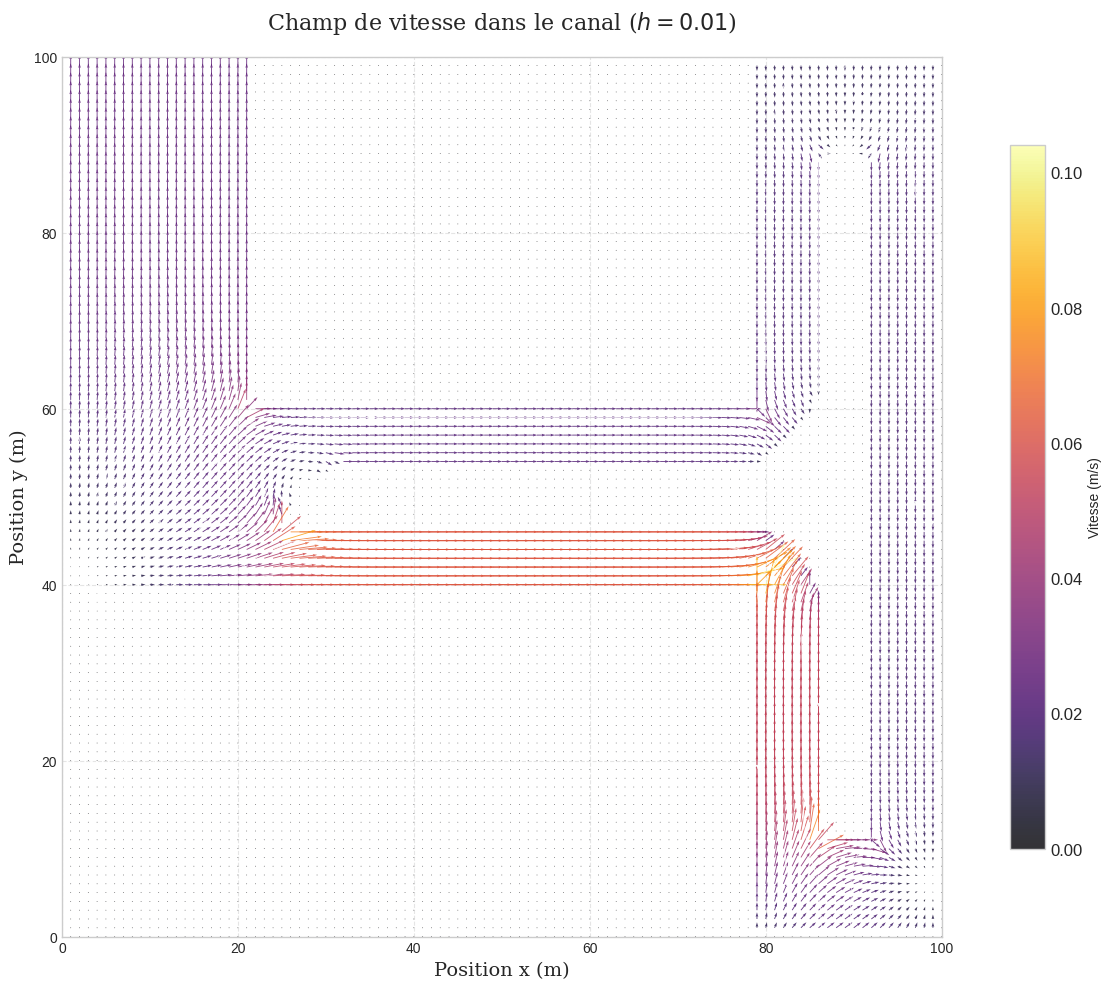
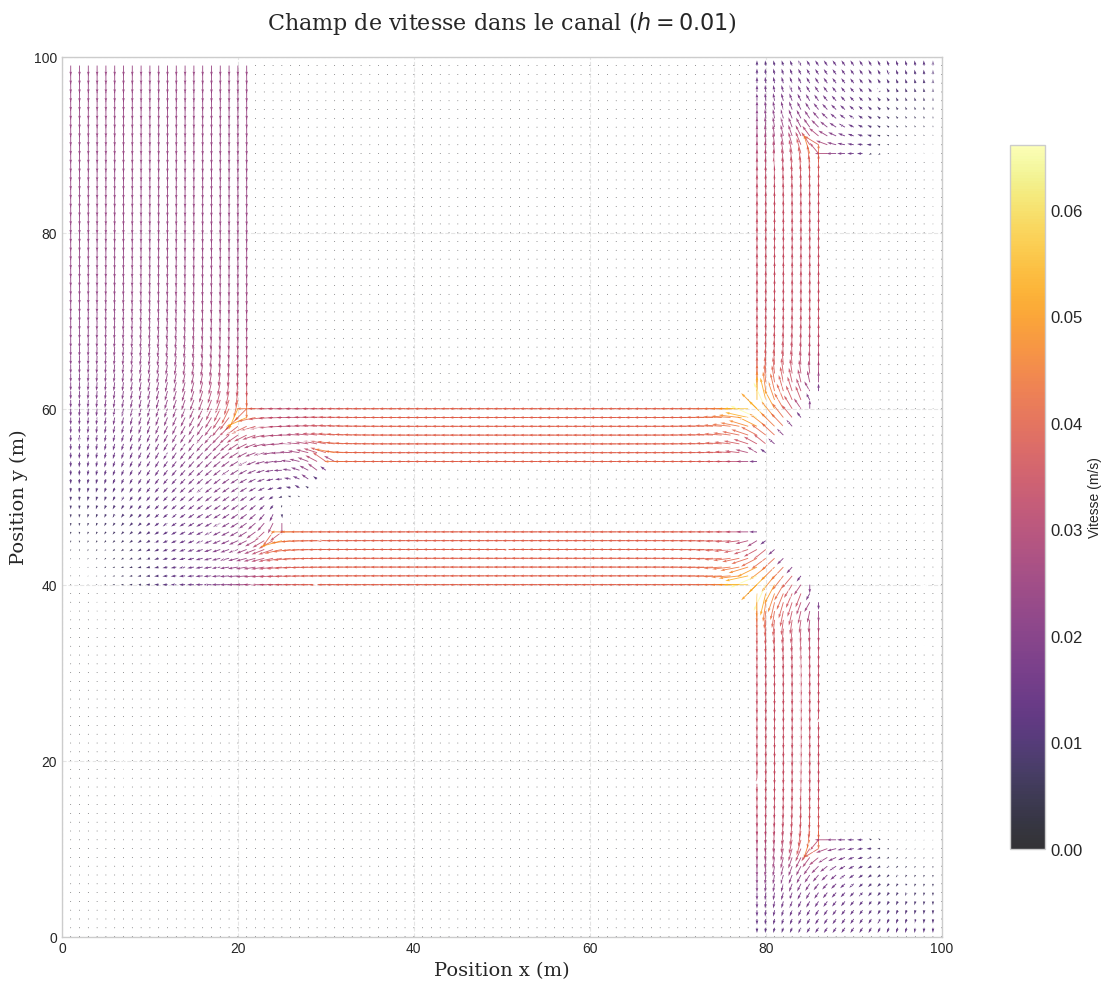
feat: fiiiiiiiiiiiiiiix c'est bon le champ de vitesse marche

diff --git a/main.py b/main.py
@@ -30,9 +30,8 @@ def main():
         print(f"La matrice X vaut \n {X} \n")
 
         if X.ndim == 1 and dom_1.shape:
-            sol_grid = np.zeros_like(dom_1, dtype=float)
-            for i in range(len(X)):
-                sol_grid[np.where(num_1 == i + 1)] = X[i]  # Map solution back to domain
+            sol_grid = np.full_like(num_1, np.nan, dtype=float)
+            sol_grid[num_1 > 0] = X[num_1[num_1 > 0] - 1]
             
             plt.figure(figsize=(14, 12))
             img = plt.imshow(sol_grid, cmap='coolwarm', origin='upper', interpolation='nearest')
@@ -67,10 +66,23 @@ def main():
             h = 0.5  # pas spatial pour le canal rectiligne (d'après le README)
             u, v = velocity(sol_grid, dom_1, h)
             
-            # Visualisation du champ de vitesse
-            plt.figure(figsize=(12, 8))
-            plt.quiver(u, v)
+            # Préparation des grilles pour quiver
+            ny, nx = sol_grid.shape
+            x = np.arange(nx) * h
+            y = np.arange(ny) * h
+            Xg, Yg = np.meshgrid(x, y)
+            Xr = Yg.T
+            Yr = Xg.T
+            u_rot = v.T
+            v_rot = u.T
+
+            plt.figure(figsize=(10, 7))
+            plt.quiver(Xr, Yr, u_rot, v_rot, color='cornflowerblue')
+            plt.xlabel("y [m]")
+            plt.ylabel("x [m]")
             plt.title("Champ de vitesse")
+            plt.axis("equal")
+            plt.grid(True)
             plt.show()
 
             # Création d'une grille de z (hauteur constante)
@@ -137,8 +149,8 @@ def main():
         print(f"La matrice A vaut \n {A} \n")
         print(f"La matrice B vaut \n {B} \n")
         
-        X = solve_system(A, B)
-        print(f"La matrice X vaut \n {X} \n")
+        psi = solve_system(A, B)
+        print(f"La matrice $\psi$ vaut \n {psi} \n")
         
         colors = [(1, 1, 1)]  # Blanc pour 0
         colors.extend(plt.cm.viridis(np.linspace(0, 1, 255))) 
@@ -148,10 +160,9 @@ def main():
         [(0.0, 'white')] + [(i / 255.0, plt.cm.Reds(i)) for i in range(1, 256)])
         
 
-        if X.ndim == 1 and dom_2.shape:
-            sol_grid = np.zeros_like(dom_2, dtype=float)
-            for i in range(len(X)):
-                sol_grid[np.where(num_2 == i + 1)] = X[i]  # Map solution back to domain
+        if psi.ndim == 1 and dom_2.shape:
+            sol_grid = np.full_like(num_2, np.nan, dtype=float)
+            sol_grid[num_2 > 0] = psi[num_2[num_2 > 0] - 1]
            
             
            
@@ -181,44 +192,24 @@ def main():
             h = 0.01  # pas spatial pour le canal rectiligne (d'après le README)
             u, v = velocity(sol_grid, dom_2, h)
             
-            speed = np.sqrt(u**2 + v**2)
-            
             # Visualisation du champ de vitesse
-            plt.style.use('seaborn-v0_8-whitegrid')
-            fig, ax = plt.subplots(figsize=(14, 10), dpi=100)
-            
-            # Génération du meshgrid pour quiver (y inversé)
-            x_quiver, y_quiver = np.meshgrid(np.arange(u.shape[1]), np.arange(u.shape[0])[::-1])
-            
-            # Utilisation correcte de quiver
-            q = ax.quiver(x_quiver, y_quiver, u, v, speed,
-                          cmap='inferno',  # Palette de couleurs
-                          scale=2,         # Échelle des flèches
-                          width=0.001,     # Largeur des flèches
-                          headwidth=3,     # Largeur des têtes de flèches
-                          alpha=0.8)       # Transparence
-            
-            # Ajout d'une barre de couleur
-            cbar = fig.colorbar(q, ax=ax, label='Vitesse (m/s)', shrink=0.8)
-            cbar.ax.tick_params(labelsize=12)
-            
-            # Génération du meshgrid pour streamplot (y non inversé)
-            x_stream, y_stream = np.meshgrid(np.arange(u.shape[1]), np.arange(u.shape[0]))
-            
-            # Ajout de lignes de courant (optionnel)
-            ax.streamplot(x_stream, y_stream, u, v, color='w', linewidth=0.5)
-            
-            # Personnalisation de l'affichage
-            ax.set_title(r'Champ de vitesse dans le canal ($h = 0.01$)',
-                         fontsize=16, pad=20, fontfamily='serif')
-            ax.set_xlabel('Position x (m)', fontsize=14, fontfamily='serif')
-            ax.set_ylabel('Position y (m)', fontsize=14, fontfamily='serif')
-            ax.grid(True, linestyle='--', alpha=0.5)
-            ax.set_aspect('equal')  # Conserve les proportions
-            
-            plt.tight_layout()
-            plt.show()
+            ny, nx = sol_grid.shape
+            x = np.arange(nx) * h
+            y = np.arange(ny) * h
+            Xg, Yg = np.meshgrid(x, y)
+            Xr = Yg.T
+            Yr = Xg.T
+            u_rot = v.T
+            v_rot = u.T
 
+            plt.figure(figsize=(10, 7))
+            plt.quiver(Xr, Yr, u_rot, v_rot, color='cornflowerblue')
+            plt.xlabel("y [m]")
+            plt.ylabel("x [m]")
+            plt.title("Champ de vitesse (canal en J)")
+            plt.axis("equal")
+            plt.grid(True)
+            plt.show()
 
             # Création d'une grille de z (hauteur constante)
             z = np.zeros_like(sol_grid)
@@ -256,7 +247,7 @@ def main():
             circulation = circu(u_contour, v_contour, x_contour, y_contour)
             print(f"\nCirculation autour du contour central: {circulation:.2f} m²/s")
 
-        return X, u, v, pressure, cl_2
+        return psi, u, v, pressure, cl_2
 
     #X_rect = canal_rectiligne()
     X_j  = canal_en_j()
